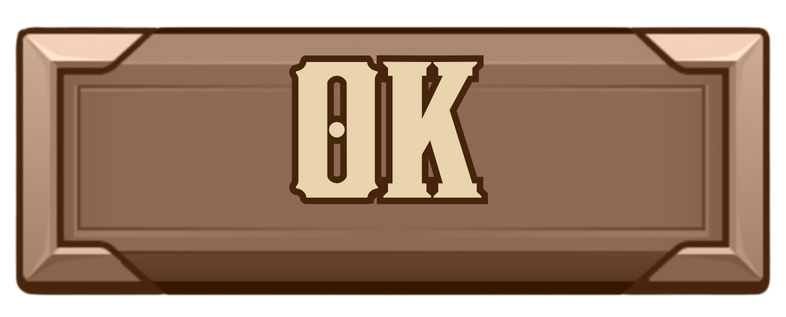
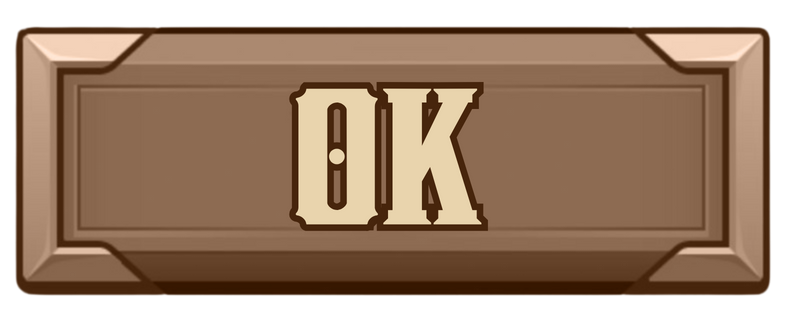
implemet cancel in namePrompt

Changed region(s): [[0.3664, 0.1703, 0.6412, 0.7382]]

diff --git a/src/echoes/of/the/dead/ChooseChar.java b/src/echoes/of/the/dead/ChooseChar.java
@@ -22,6 +22,8 @@ public class ChooseChar extends javax.swing.JFrame implements MouseInteractable 
     TransparentPanel btn_priest;
     EchoesObjects btn_select;
     EchoesObjects btn_ok;
+    EchoesObjects btn_cancel;
+    EchoesObjects promptPanel;
     String charType;
     JTextField nameField;
     Dimension screenSize = Toolkit.getDefaultToolkit().getScreenSize();
@@ -85,7 +87,7 @@ public class ChooseChar extends javax.swing.JFrame implements MouseInteractable 
     public void onClick(MouseEvent e) {
         Object source = e.getSource();
         if (source == btn_select) {
-            EchoesObjects promptPanel = new EchoesObjects(
+            promptPanel = new EchoesObjects(
             "world1",(int) (screenSize.width * 0.20), 
             (int) (screenSize.height * 0.12), 
             (int) (screenSize.width * 0.58), 
@@ -110,7 +112,7 @@ public class ChooseChar extends javax.swing.JFrame implements MouseInteractable 
             nameField.setForeground(Color.WHITE); // Set text color to white (or any other color for contrast)
             nameField.setBackground(new Color(0, 0, 0, 0)); // Optional: Ensure no background color is applied
             btn_ok = new EchoesObjects(
-                "button", (int) (panelWidth * 0.38),
+                "button", (int) (panelWidth * 0.24),
                 (int) (panelHeight * 0.68),
                 (int) (panelWidth * 0.22),
                 (int) (panelHeight * 0.13),
@@ -119,6 +121,18 @@ public class ChooseChar extends javax.swing.JFrame implements MouseInteractable 
             btn_ok.setVisible(true);
             btn_ok.addMouseListener(new MouseClickListener(this));
             promptPanel.add(btn_ok);
+
+            btn_cancel = new EchoesObjects(
+                "button", (int) (panelWidth * 0.55),
+                (int) (panelHeight * 0.68),
+                (int) (panelWidth * 0.22),
+                (int) (panelHeight * 0.13),
+                "cancel_button", false, true
+            );
+            btn_cancel.setVisible(true);
+            btn_cancel.addMouseListener(new MouseClickListener(this));
+            promptPanel.add(btn_cancel);
+
             promptPanel.add(nameField); // Add the text field to the prompt panel
             scene.add(promptPanel); // Add the prompt panel to the scene
         
@@ -150,6 +164,8 @@ public class ChooseChar extends javax.swing.JFrame implements MouseInteractable 
                 window.setVisible(true);
                 this.setVisible(false);
             }
+        }else if(source == btn_cancel){        
+                promptPanel.setVisible(false);    
         }
     }
 
